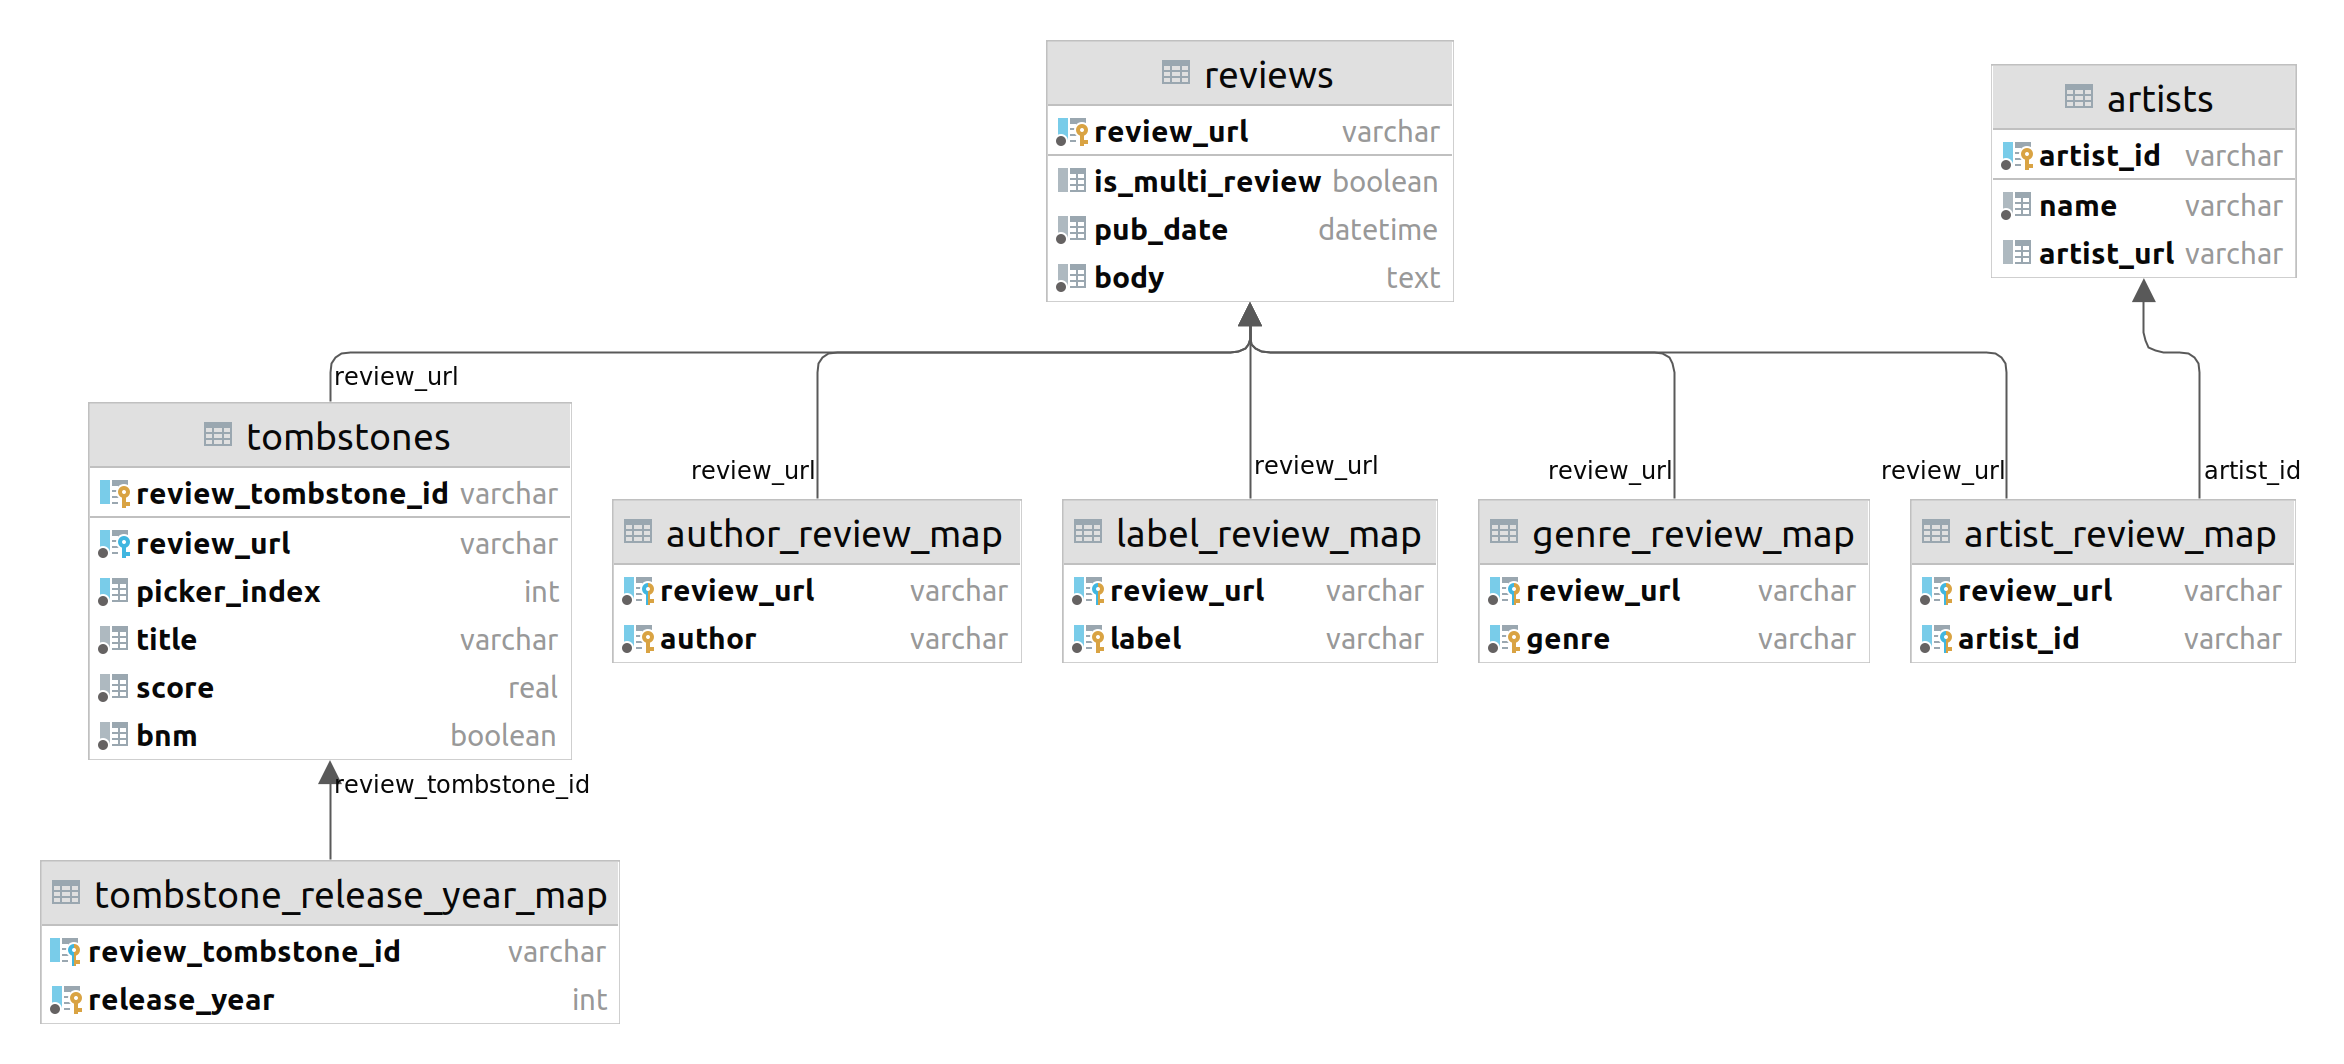
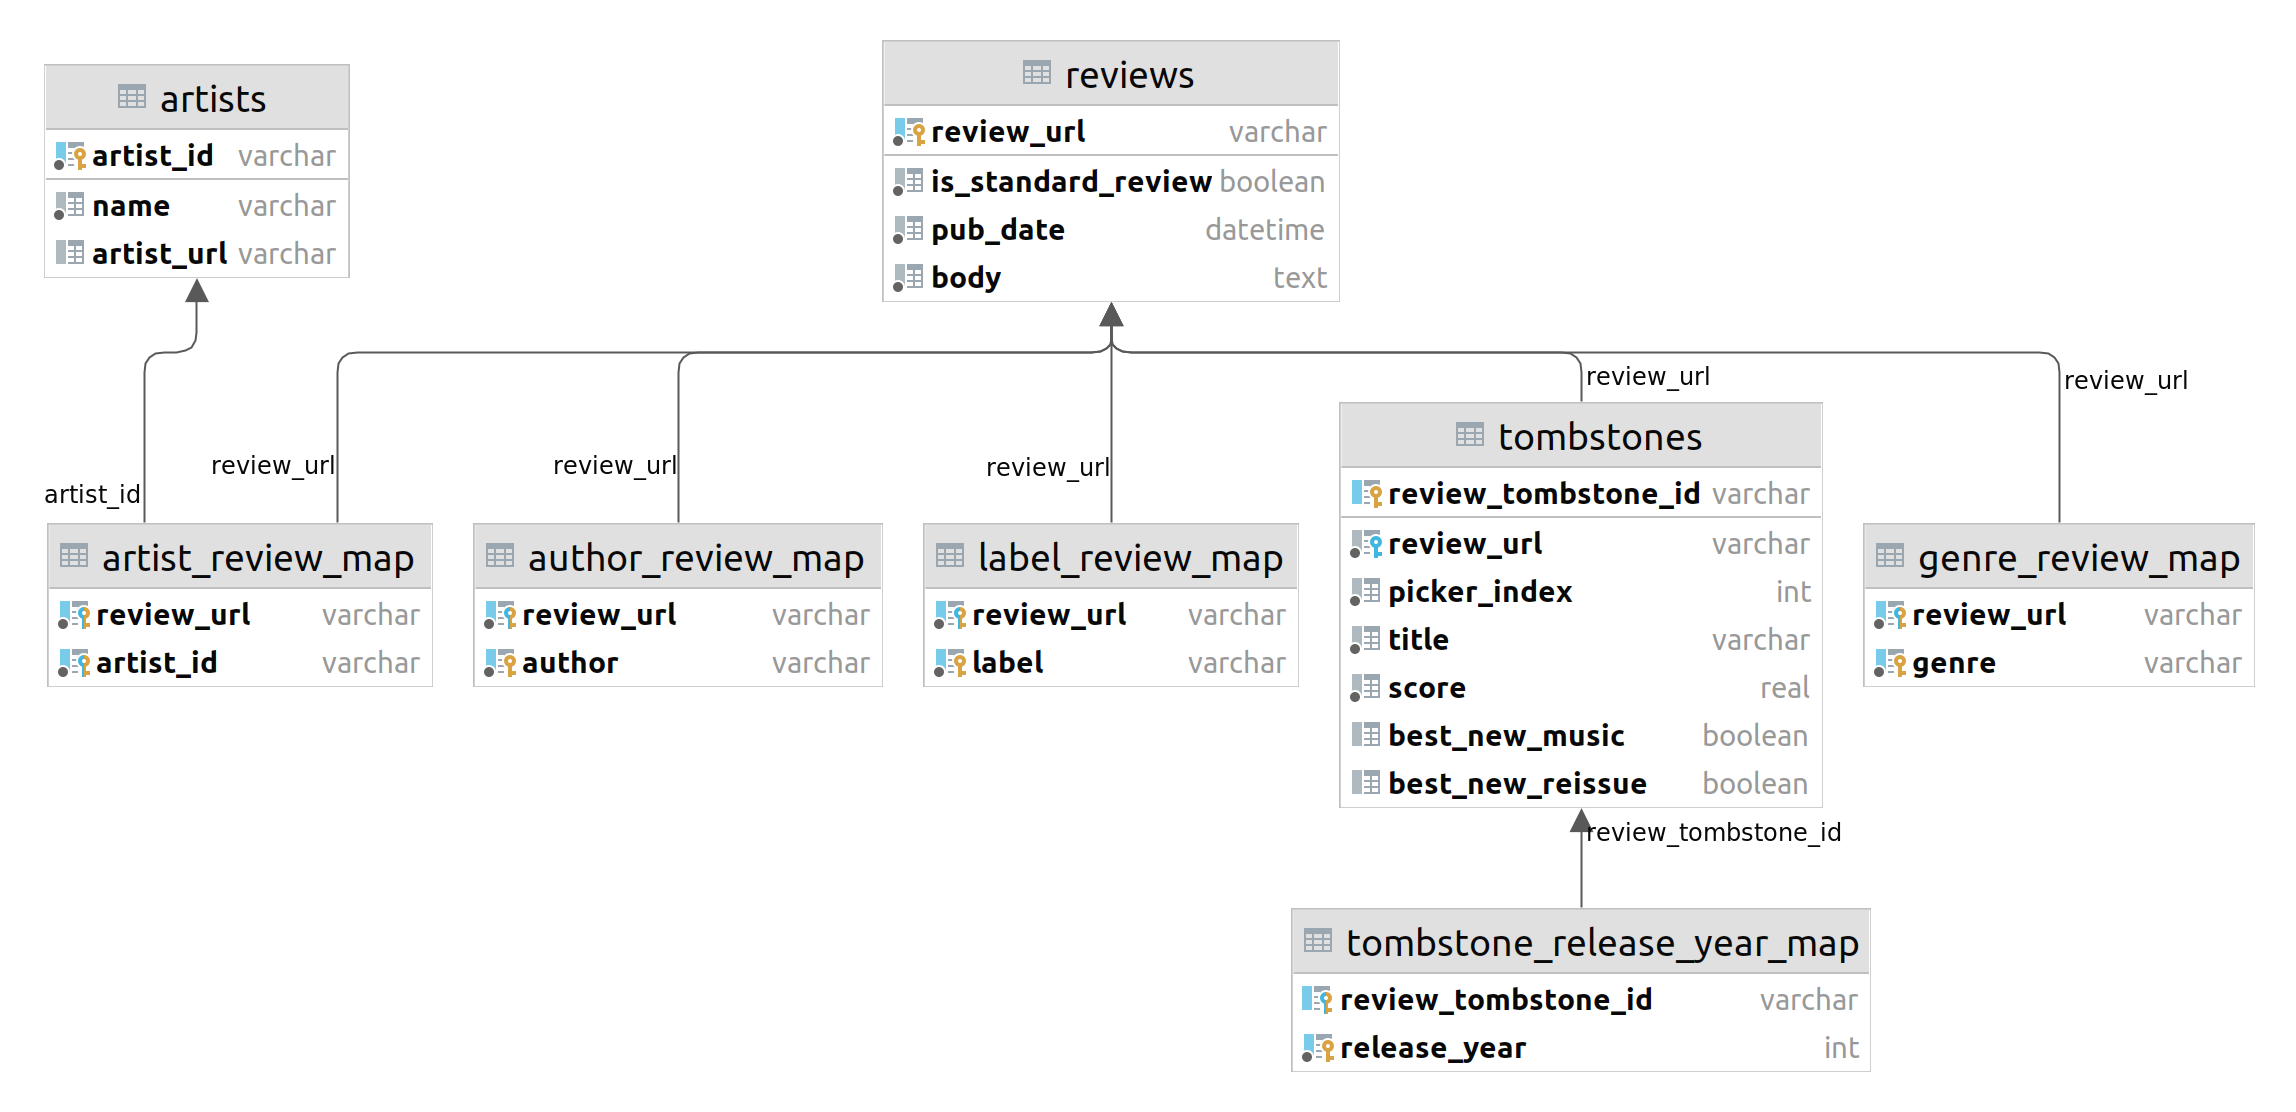
update readme, schema image

diff --git a/readme.md b/readme.md
@@ -8,15 +8,9 @@ More than five years have passed and I have gotten _a lot_ better at data modeli
 
 This repo contains the scraper code as it stands; maybe one day I will add in the data. I call it `pitchfork-2022` because I will definitely not finish in 2021.
 
+# Data Model
 
-## TODO
-
-- [x] more pydantic assertions
-- [x] make flat view with casted year, etc, types for regular reviews
-- [x] better database assertions (at least confirm views are selectable)
-- [x] make bnm null for releases prior to bnm
-- [ ] spot checks on review content
-- [x] detect best new reissues; maybe some way of catching reissues that are not best new?
+![](schema.png)
 
 ## Known Issues
 
@@ -31,9 +25,6 @@ As far as I can tell, there is no _"is reissue"_ tag hidden in the review HTML. 
  
 But I have found cases in which Pitchfork only reports the reissue year and which are not Best New Reissue ([example](https://pitchfork.com/reviews/albums/violent-femmes-why-do-birds-sing-deluxe-edition/)). In these cases I have found little to use which would support identification of a reissue.
 
-# Data Model
-
-![](schema.png)
 
 # Data Build
 
